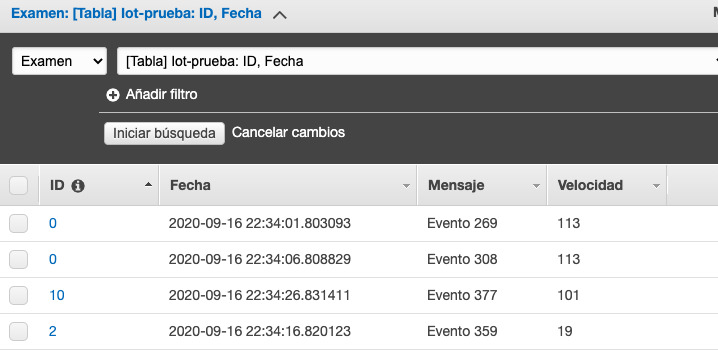
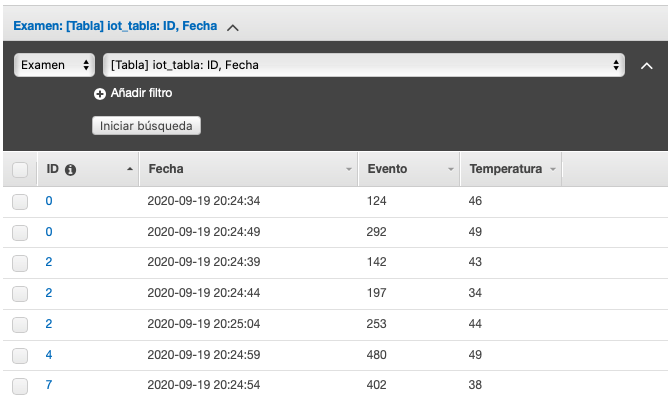
“actualizando”

diff --git a/ejercicio1.py b/ejercicio1.py
@@ -47,12 +47,13 @@ while True:
     #Declarando las variables
     message ={
     'ID': str(random.randint(0,10)),
-    'Temperatura': random.randint(0,120),
+    'Temperatura': random.randint(30,50),
     'Fecha': str(now.strftime("%Y-%m-%d %H:%M:%S")),
     'Evento': str(random.randint(100,500))
     }
     #decodificando el JSON
     message = mqttc.json_encode(message)
+    print(message)
     send()
     time.sleep(5)
 

diff --git a/README.md b/README.md
@@ -369,7 +369,67 @@ Ahora envia los datos y podras observar como la tabla de DynamoDB creada se empi
 
 ### Parte 2: Envió de notificaciones por SMS y correo electrónico.
 
-Para
+Para el envio de notificaciones usaremos el servicio [AWS SNS](https://aws.amazon.com/es/sns/?whats-new-cards.sort-by=item.additionalFields.postDateTime&whats-new-cards.sort-order=desc). 
+
+
+Para iniciar debemos crear un tema en AWS SNS
+
+!["Crer vista_dynamodDB"](imagen/sns_1.png)
+
+Lo nombras como quieras en mi caso lo deje como **SNSAlerta** y luego **Crear Tema**. 
+
+A continuación dale click a **Crear una subcripción**, aca indicaremos el protocolo que enviara la notificación. 
+
+Para el caso de SMS seleccionamos en protocolo SMS y agregas el numero al cual quieres que le lleguen las notificaciones y finalizas con **Crear Subscripción**:
+
+!["Crer vista_dynamodDB"](imagen/sns_sms.png)
+
+Ahora vamos a crear una cola en SQS, esto para asegurar que no se nos quede ninguna notificación por fuera. 
+
+Vamos al servicio [AWS SQS](https://aws.amazon.com/es/sqs/) y Creamos una cola. 
+
+!["sqs"](imagen/sqs_1.png)
+
+La nombras como **"ColaAlertaIot"** y para efecto de este ejercicio dejas el resto como esta y avanzas con **"Crear Cola"**. 
+
+Subcribimos la cola al tema Amazon SNS
+
+!["sqs"](imagen/sqs_2.png)
+
+Y seleccionas el tema creado anteriormente
+
+!["sqs"](imagen/sqs_3.png)
+
+De vuelta a AWS IoT Core vamos al meno de abajo a la izquierda **Actuar --> Reglas --> Crear**
+
+Creas la regla como se muestra en la imagen a continuación
+
+!["Regla"](imagen/regla_sns.png)
+
+Y al igual que el erjecicio anterior modificamos la Query pero esta vez como se muestra a continuación: 
+
+```
+SELECT "Alerta: Temperatura mayor a 40 grados" as msg FROM 'data' where value > 40
+```
+Añadimos acción y seleccionamos:
+
+!["Regla"](imagen/regla_sns2.png)
+
+Configuramos la acción y en formato de mensaje seleccionamos RAW: 
+
+!["Regla"](imagen/sns_accion.png)
+
+Como en el ejercicio anterior debemos crear el Rol
+
+!["Regla"](imagen/accion_sns_2.png)
+
+Y finalizamos con **Añadir Accion --> Crear Regla**
+
+No olvides habilitar la regla. 
+
+!["Regla"](imagen/habilitar2.png)
+
+
 
 ---
 
